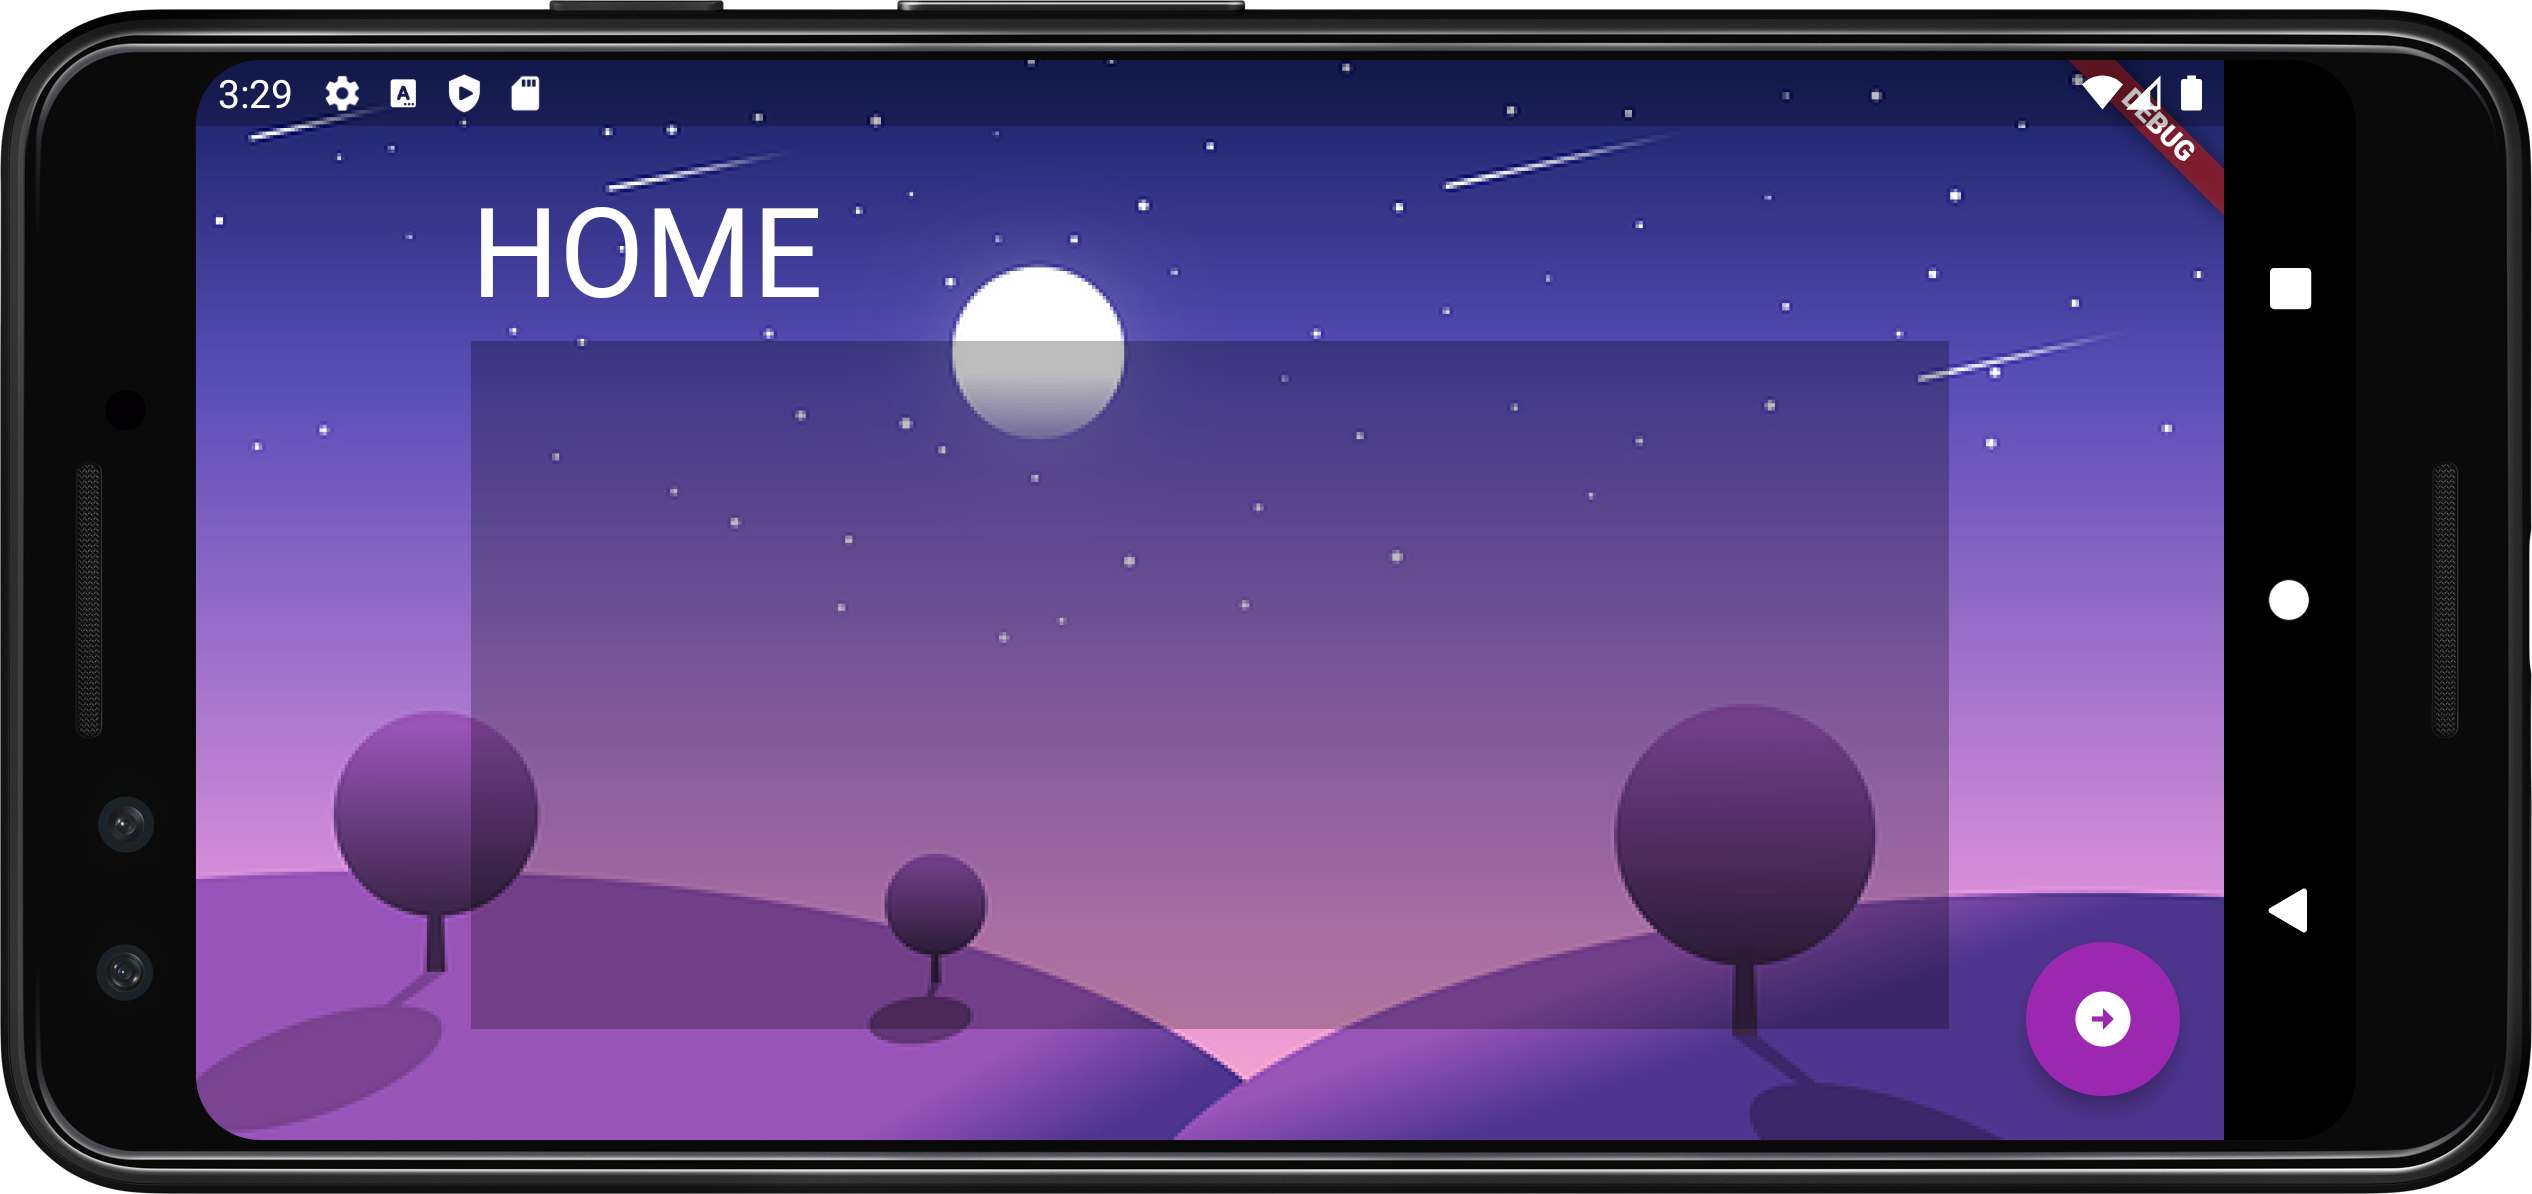
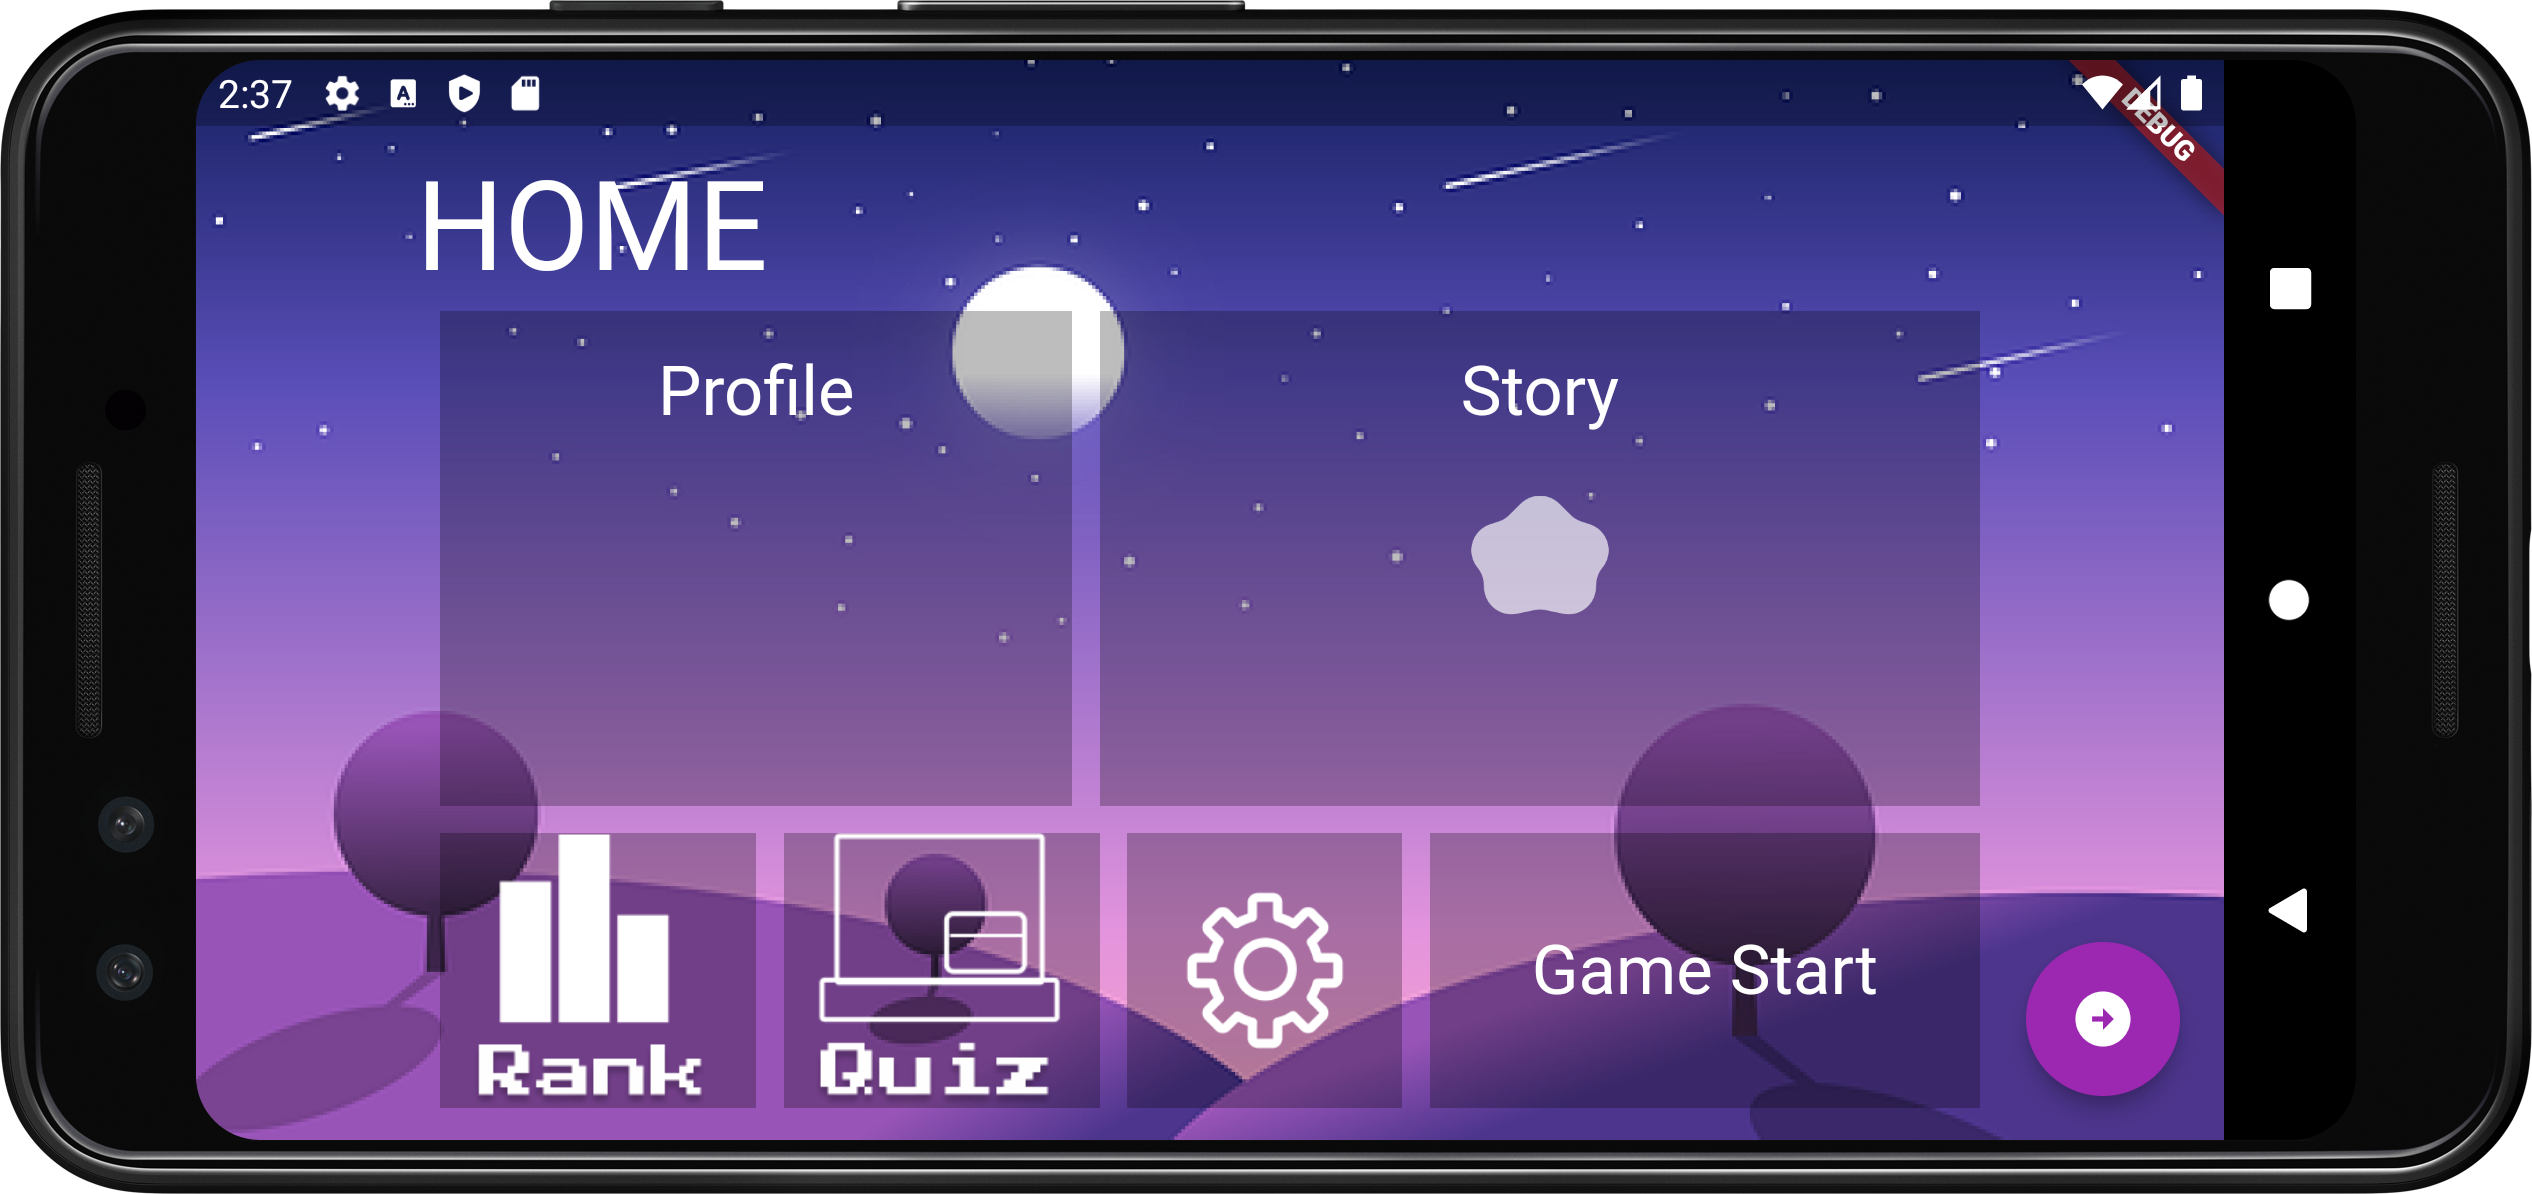
working on mainPage
메인 화면을 구현중

Changed region(s): [[0.156, 0.1549, 0.78, 0.9296], [0.5616, 0.4028, 0.6552, 0.5268], [0.0936, 0.062, 0.1248, 0.093]]

diff --git a/lib/mainPage.dart b/lib/mainPage.dart
@@ -1,5 +1,6 @@
 import 'package:flutter/material.dart';
 import 'package:history_gamification/LoginPage.dart';
+import 'package:history_gamification/main.dart';
 
 class mainPage extends StatefulWidget {
   @override
@@ -71,8 +72,28 @@ class _mainPage extends State<mainPage> {
                                           'Story',
                                           textAlign: TextAlign.center,
                                           style: TextStyle(fontSize:25, color:Colors.white),
+                                        ),
+                                        SizedBox( height: 20,),
+                                        Container(
+                                          height: 50.0,
+                                          width: 50.0,
+                                          decoration: BoxDecoration(
+                                            image: DecorationImage(
+                                              image: AssetImage('assets/images1/star.png'),
+                                            ),
+                                          ),
+                                       ),
+                                        /*
+                                        ElevatedButton.icon(
+                                            onPressed: (){
+                                                Navigator.of(context)
+                                                    .push(MaterialPageRoute(builder: (context) => LoginPage()));
+                                                },
+                                            icon: Icons.add_a_photo,
+                                            label: label
                                         )
-                                      ]
+                                        */
+                                    ]
                                   ),//BoxDecoration
                                 ), //Container
                               ], //<Widget>[]
@@ -91,7 +112,14 @@ class _mainPage extends State<mainPage> {
                                       fit: BoxFit.cover,
                                       image: AssetImage('assets/images1/dark.png'),
                                     ),
-                                  ),//BoxDecoration
+                                  ),
+                                    child: Container(
+                                      decoration: BoxDecoration(
+                                        image: DecorationImage(
+                                          image: AssetImage('assets/mainPage/Ranking_Button.png'),
+                                        ),
+                                      ),
+                                    )//BoxDecoration
                                 ),
                                 SizedBox(  width: 10,),
                                 Container(
@@ -102,7 +130,16 @@ class _mainPage extends State<mainPage> {
                                       fit: BoxFit.cover,
                                       image: AssetImage('assets/images1/dark.png'),
                                     ),
-                                  ),//BoxDecoration
+                                  ),
+                                    child: Container(
+                                      width: 80,
+                                      height: 70,
+                                      decoration: BoxDecoration(
+                                        image: DecorationImage(
+                                          image: AssetImage('assets/mainPage/Quiz_Button.png'),
+                                        ),
+                                      ),
+                                    )
                                 ), ///Container
                                 SizedBox(  width: 10,), //SizedBox
                                 Container(
@@ -113,6 +150,14 @@ class _mainPage extends State<mainPage> {
                                       fit: BoxFit.cover,
                                       image: AssetImage('assets/images1/dark.png'),
                                     ),
+                                  ),
+                                  child: Container(
+                                      decoration: BoxDecoration(
+                                        image: DecorationImage(
+                                          fit: BoxFit.cover,
+                                          image: AssetImage('assets/mainPage/setting_Button.png'),
+                                        ),
+                                      ),
                                   ),
                                 ),
                                 SizedBox(  width: 10,),
@@ -154,7 +199,7 @@ class _mainPage extends State<mainPage> {
         floatingActionButton: FloatingActionButton(
         onPressed: (){
           Navigator.of(context)
-              .push(MaterialPageRoute(builder: (context) => LoginPage()));
+              .push(MaterialPageRoute(builder: (context) => FirstPage()));
         },
         child: const Icon(Icons.arrow_circle_right),
        ),

diff --git a/lib/main.dart b/lib/main.dart
@@ -2,6 +2,7 @@ import 'package:flutter/material.dart';
 import 'package:flutter/services.dart'; //가로방향 설정 위하여 추가
 import 'package:history_gamification/LoginPage.dart';
 import 'package:firebase_core/firebase_core.dart';
+import 'package:history_gamification/mainPage.dart';
 
 
 
@@ -84,7 +85,7 @@ class _FirstPageState extends State<FirstPage> {
       floatingActionButton: FloatingActionButton(
         onPressed: (){
           Navigator.of(context)
-              .push(MaterialPageRoute(builder: (context) => LoginPage()));
+              .push(MaterialPageRoute(builder: (context) => mainPage()));
         },
         child: const Icon(Icons.arrow_circle_right),
       ),

diff --git a/lib/registerPage.dart b/lib/registerPage.dart
@@ -66,8 +66,6 @@ class _registerPage extends State<registerPage> {
                           ),
                         ),
 
-
-
                        ]
                       ),
                     ),
